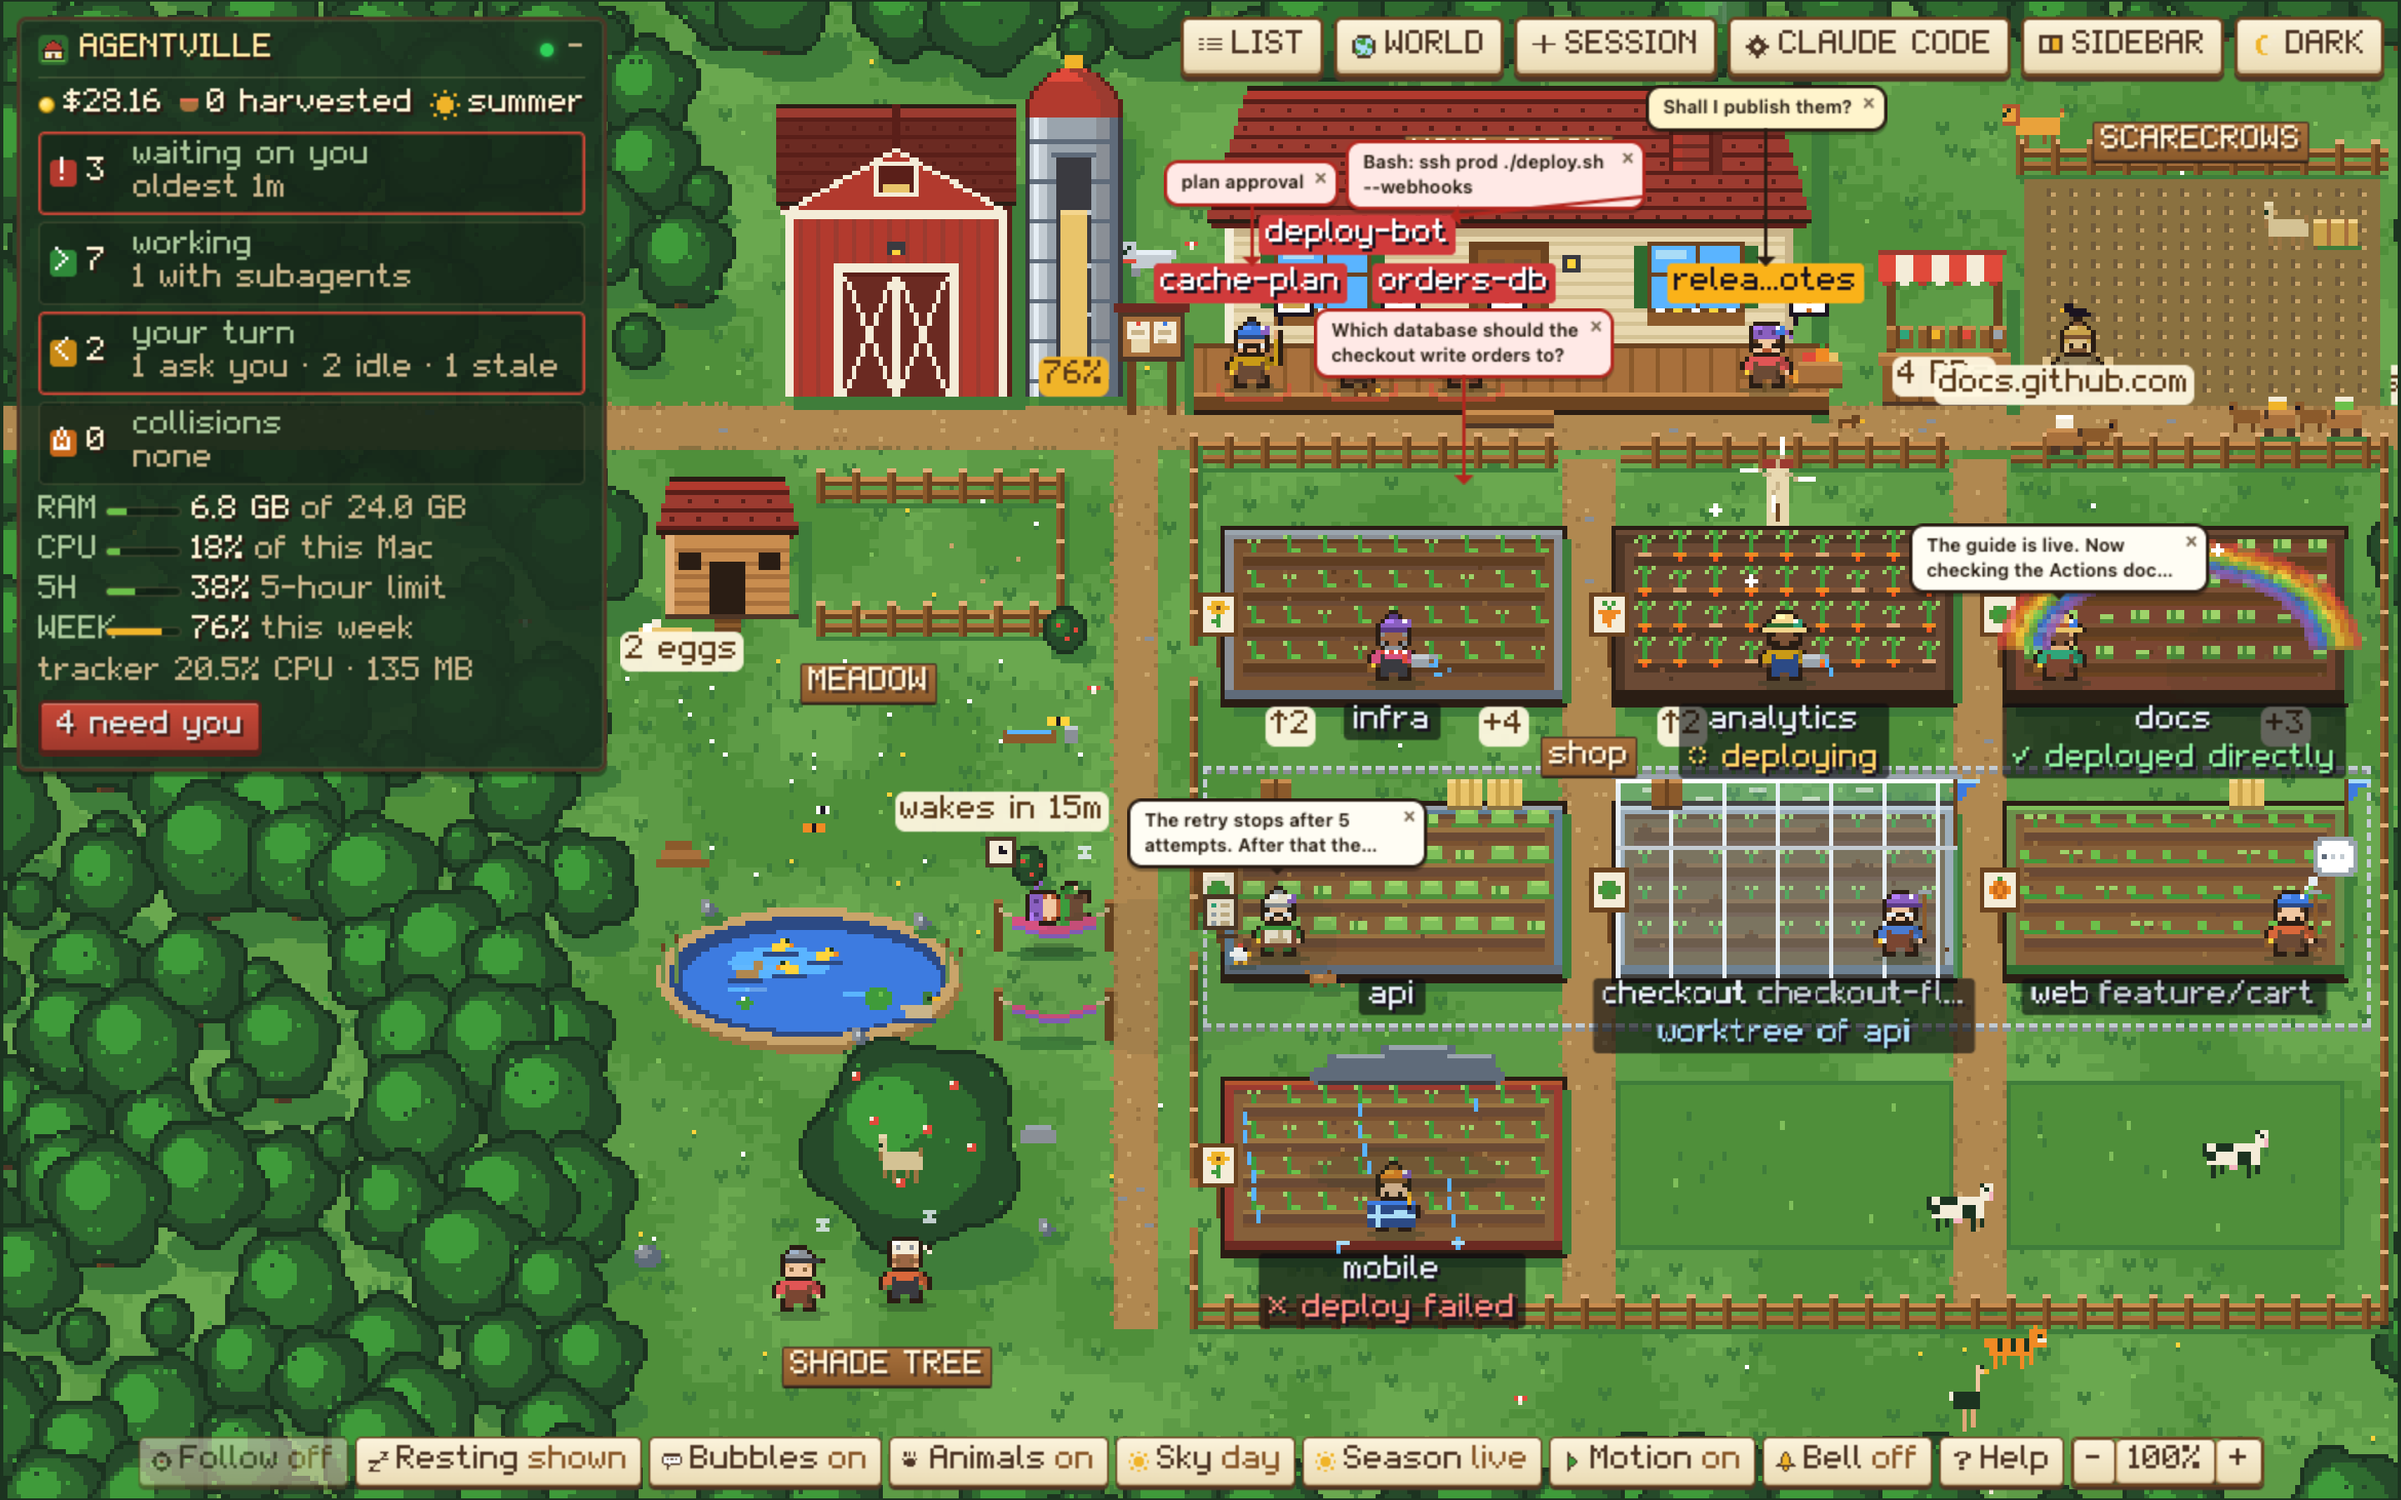
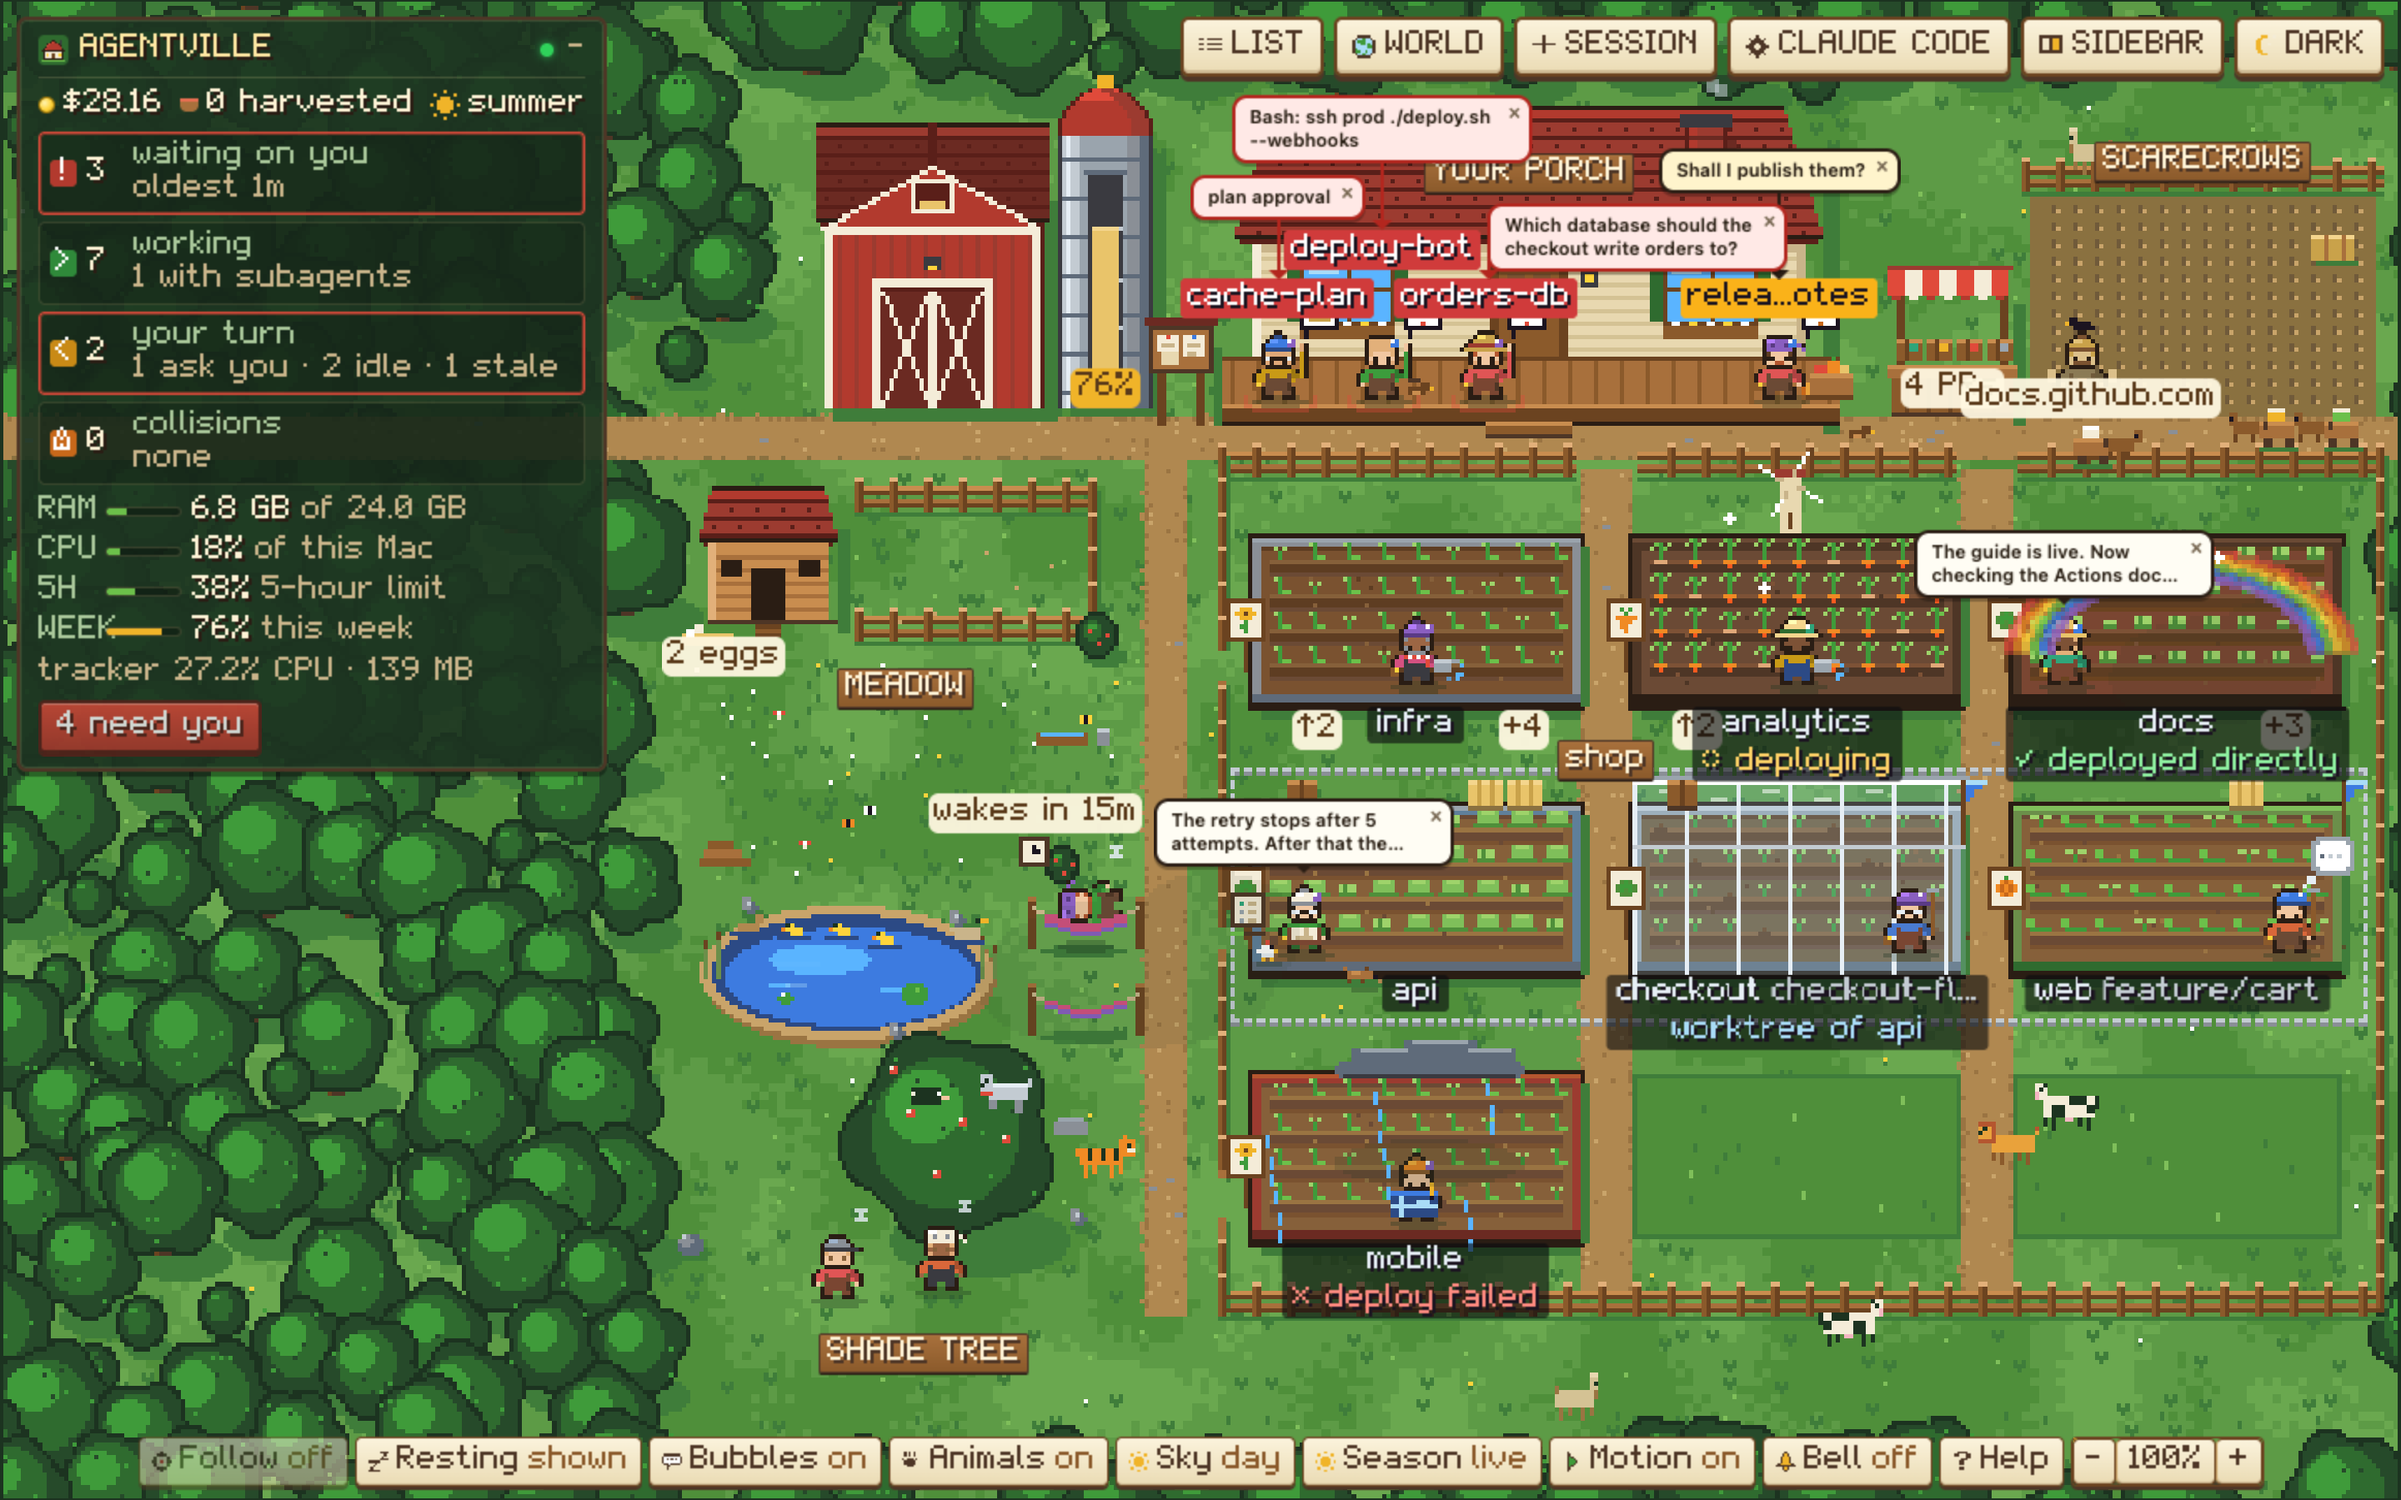
The farm keeps its size as the panel's figures change: fitted to what the panel needs at most, again only when the panel outgrows that, folds or the frame resizes
The panel's width follows its text (a CPU figure, the held season's 📌), and the farm was
fitted again at every change, so it grew and shrank as the numbers moved. holdHud keeps room
beside the panel for a longer figure and moves the farm only when the panel outgrows it; a
fold or a new frame size measures afresh. The refit waits for the next frame instead of
running inside whatever drew the HUD (a farmer's move called sync, which called resize, which
called sync).

diff --git a/web/worlds/sdk/engine.js b/web/worlds/sdk/engine.js
@@ -180,6 +180,18 @@ function fitClear(fw, fh, W, H, panel, tools = 0) {
   return { fit, pad: { l, r: Math.floor(spareW) - l, t, b: spareH - t } };
 }
 
+/**
+ * What the world is fitted clear of: the panel and the switches as they stand (`now`: { w, h, tools },
+ * CSS pixels) against what was kept before (null on a new fit). The same object while `now` fits inside
+ * it, so the world keeps its size as the panel's figures come and go; more when the panel outgrows it
+ * (an error line, an account's row). Beside the panel, room is kept for a longer figure.
+ */
+function holdHud(kept, now) {
+  if (kept && now.w <= kept.w && now.h <= kept.h && now.tools <= kept.tools) return kept;
+  const room = w => (w ? w + 24 : 0);
+  return kept ? { w: Math.max(kept.w, room(now.w)), h: Math.max(kept.h, now.h), tools: Math.max(kept.tools, now.tools) } : { w: room(now.w), h: now.h, tools: now.tools };
+}
+
 /** A world's hooks, with the engine's default for each one it leaves out (docs/worlds.md, "Hooks"). */
 function withDefaults(h) {
   if (!(h.W > 0)) throw new Error('A world needs its width, W (in world pixels).');
@@ -281,7 +293,8 @@ function makePixelView(th, prefs) {
   const resting = f => f.state === 'idle' || f.state === 'stale';
   let glide = null; // a zoom easing in: { from: scale, start, ox, oy }
   let pad = { l: 0, r: 0, t: 0, b: 0 }; // the frame's spare room, in world pixels: more forest all round
-  let hudKey = ''; // the panel's size and the switches' height the farm was last fitted clear of
+  let hudKept = null; // the panel's size and the switches' height the farm is fitted clear of (holdHud); null: measure afresh
+  let refit = 0; // a fit waiting for the next frame: the panel outgrew what was kept for it
   const extOf = () => ({ x0: -pad.l, x1: th.W + pad.r, y0: -pad.t, y1: th.layout().H + pad.b });
   const skyNow = () => skyAt(skyMode === 'day' ? new Date(2000, 0, 1, 12) : skyMode === 'night' ? new Date(2000, 0, 1, 23) : new Date());
   let wheel = 0;
@@ -407,13 +420,14 @@ function makePixelView(th, prefs) {
   function renderHud() {
     if (hudEl) hudEl.innerHTML = th.hud({ still, zoom, saysOn, skyMode, seasonMode, seasons: th.hasSeasons, follow, canFollow: Boolean(selectedId && bots.has(selectedId)), restingHidden: restingShown ? null : scene.farmers.filter(resting).length, bell: bellOn, nav: opts.navState?.() ?? {}, panelOpen, animals: kit ? animalsOn : null, menuOpen: hudMenu });
     placeMini();
-    // a panel that grew (an account's row) or shrank, or switches on more rows: the farm moves clear of them
-    if (canvas && hudSize() !== hudKey) resize();
+    // a panel that outgrew what was kept for it: the farm moves clear of it on the next frame, not in
+    // the middle of whatever drew the HUD (a farmer's move, say)
+    if (canvas && !refit && holdHud(hudKept, hudNow()) !== hudKept) refit = requestAnimationFrame(() => { refit = 0; resize(); });
   }
   /** The panel over the frame's top left (a world's .px-stats; 0 × 0 when there is none) and the switches' height, as they stand. */
-  function hudSize() {
-    const el = hudEl?.querySelector('.px-stats'), tools = hudEl?.querySelector('.px-tools');
-    return `${el?.offsetWidth ?? 0},${el?.offsetWidth ? el.offsetHeight : 0},${tools?.offsetHeight ?? 0}`;
+  function hudNow() {
+    const el = hudEl?.querySelector('.px-stats'), tools = hudEl?.querySelector('.px-tools'), w = el?.offsetWidth ?? 0;
+    return { w, h: w ? el.offsetHeight : 0, tools: tools?.offsetHeight ?? 0 };
   }
   /** The minimap sits just above the switches, which take more rows in a narrow frame (the sidebar open). */
   function placeMini() {
@@ -878,8 +892,8 @@ function makePixelView(th, prefs) {
     // over the frame's top left (its 10px margin and a 6px gap): the farm sits clear of it.
     const fw = viewEl?.offsetWidth || th.W, fh = viewEl?.offsetHeight || 0;
     const was = `${pad.l},${pad.r},${pad.t},${pad.b}`;
-    hudKey = hudSize();
-    const [pw, ph, tools] = hudKey.split(',').map(Number);
+    hudKept = holdHud(hudKept, hudNow());
+    const { w: pw, h: ph, tools } = hudKept;
     let fit;
     ({ fit, pad } = fitClear(fw, fh, th.W, H, pw ? { w: pw + 16, h: ph + 16 } : null, tools ? tools + 12 : 0)); // the switches: 8px off the bottom, a 4px gap
     const EW = th.W + pad.l + pad.r, EH = H + pad.t + pad.b;
@@ -979,7 +993,7 @@ function makePixelView(th, prefs) {
     if (mem) { e.stopPropagation(); dlg?.close(); opts.onOpenDoc?.(mem.dataset.farmMem, mem.dataset.path); return; }
     if (e.target.closest?.('[data-farm-dlg-close]') || (dlg && e.target === dlg)) { e.stopPropagation(); dlg.close(); return; }
     if (dlg?.contains(e.target)) return;
-    if (e.target.closest?.('[data-farm-panel]')) { e.stopPropagation(); panelOpen = !panelOpen; prefs.set('panel', panelOpen ? 'open' : 'folded'); renderHud(); resize(); return; }
+    if (e.target.closest?.('[data-farm-panel]')) { e.stopPropagation(); panelOpen = !panelOpen; prefs.set('panel', panelOpen ? 'open' : 'folded'); renderHud(); hudKept = null; resize(); return; }
     const navBtn = e.target.closest?.('[data-farm-nav]');
     if (navBtn) { e.stopPropagation(); opts.onNav?.(navBtn.dataset.farmNav); renderHud(); return; } // the dashboard's own buttons
     const stateBtn = e.target.closest?.('[data-farm-state]');
@@ -1169,10 +1183,11 @@ function makePixelView(th, prefs) {
       settle(groundFor(scene.fields));
       renderHud(); // before the first fit: the panel's and switches' size place the farm
       bg = buildBg();
+      hudKept = null;
       resize();
       placed = false;
       if (got) restorePlace(); // else when the first scene has been applied and the canvas has its size
-      ro = new ResizeObserver(() => resize());
+      ro = new ResizeObserver(() => { hudKept = null; resize(); }); // a new frame size: the panel measured afresh
       ro.observe(host);
       host.addEventListener('click', onClick);
       viewEl.addEventListener('wheel', onWheel, { passive: false });

diff --git a/docs/worlds.md b/docs/worlds.md
@@ -355,7 +355,7 @@ A hook you give always wins over its default.
 | `onMove` | `(agent, zone, prevZone, pop)` | nothing; `pop(text, cls)` shows a pop-up over the agent |
 | `speed` | `(agent)` | `40`: walking speed |
 | `zoneText` | `(agent, zone)` | `'moves'`: the log line when an agent changes zone |
-| `hud` | `(state)` | one **Menu** button at the top right (`data-farm-menu`), and under it the menu (`.px-menu`, `hidden` while shut): the dashboard's buttons (list, world, sidebar, broadcast), then sky, season (in a world with seasons), motion, animals, help and zoom. The engine opens and shuts the menu: its button, Esc, or a click anywhere else; inside it, a switch or zoom leaves it open and a button that takes you elsewhere (`data-farm-nav` but `theme`, help) shuts it. `state` is `{ still, zoom, saysOn, skyMode, seasonMode, seasons, follow, canFollow, restingHidden, bell, nav, panelOpen, animals, menuOpen }` (`menuOpen`: draw your own menu open, as `menuOpen ? '' : ' hidden'` on it; a HUD of your own may also lay its buttons out without one. `animals`: `true` or `false` for a world with animals, its Animals switch with `data-farm-animals`; `null` for one without. `seasons`: `true` for a world with seasons, whose Season switch is a button with `data-farm-season`, right after the Sky's `data-farm-sky`, saying `seasonMode`: `'live'`, `'spring'`, `'summer'`, `'autumn'` or `'winter'`; the engine moves it on when it is clicked). Your own should keep List and World: an engine world gets no corner control from the page. A panel of your own at the top left with the class `px-stats` (as the farm's) never covers the world: at 100% the engine fits the world beside it, or below it (and then above a row of `px-tools` switches, if your HUD has one: the default and the farm's have none) when that leaves it bigger, and fits it again when the panel folds or grows |
+| `hud` | `(state)` | one **Menu** button at the top right (`data-farm-menu`), and under it the menu (`.px-menu`, `hidden` while shut): the dashboard's buttons (list, world, sidebar, broadcast), then sky, season (in a world with seasons), motion, animals, help and zoom. The engine opens and shuts the menu: its button, Esc, or a click anywhere else; inside it, a switch or zoom leaves it open and a button that takes you elsewhere (`data-farm-nav` but `theme`, help) shuts it. `state` is `{ still, zoom, saysOn, skyMode, seasonMode, seasons, follow, canFollow, restingHidden, bell, nav, panelOpen, animals, menuOpen }` (`menuOpen`: draw your own menu open, as `menuOpen ? '' : ' hidden'` on it; a HUD of your own may also lay its buttons out without one. `animals`: `true` or `false` for a world with animals, its Animals switch with `data-farm-animals`; `null` for one without. `seasons`: `true` for a world with seasons, whose Season switch is a button with `data-farm-season`, right after the Sky's `data-farm-sky`, saying `seasonMode`: `'live'`, `'spring'`, `'summer'`, `'autumn'` or `'winter'`; the engine moves it on when it is clicked). Your own should keep List and World: an engine world gets no corner control from the page. A panel of your own at the top left with the class `px-stats` (as the farm's) never covers the world: at 100% the engine fits the world beside it, or below it (and then above a row of `px-tools` switches, if your HUD has one: the default and the farm's have none) when that leaves it bigger. It fits it again when the panel folds or unfolds, the frame changes size, or the panel outgrows the room kept for it (an error line, say), never as its figures change |
 | `ground`, `shadows(body)`, `top`, `drawFx(agent, body)` | | nothing: drawn under the agents, under each agent, over everything, and over each agent |
 | `season` | `()` | `'summer'`, and no seasons. A world that gives its own has seasons ("Seasons", below): it returns the live season (`'spring'`, `'summer'`, `'autumn'` or `'winter'`), and the HUD gets the Season switch |
 | `lights` | `()` | `[]`; each `[x, y, r, colour]` glows at night |
